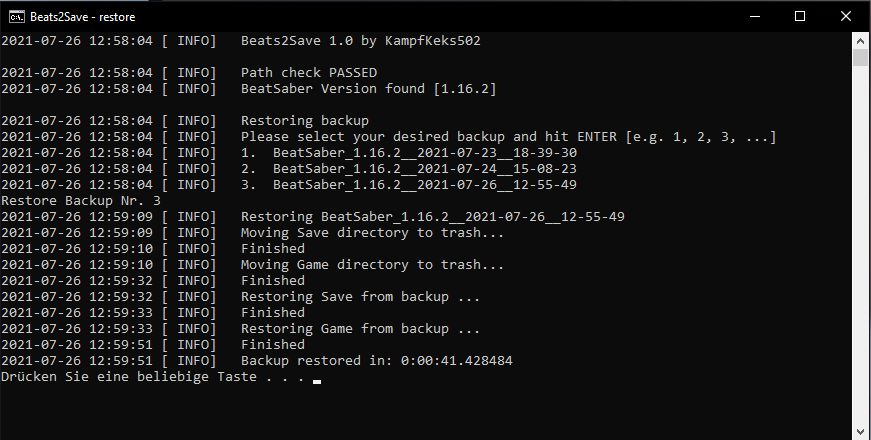
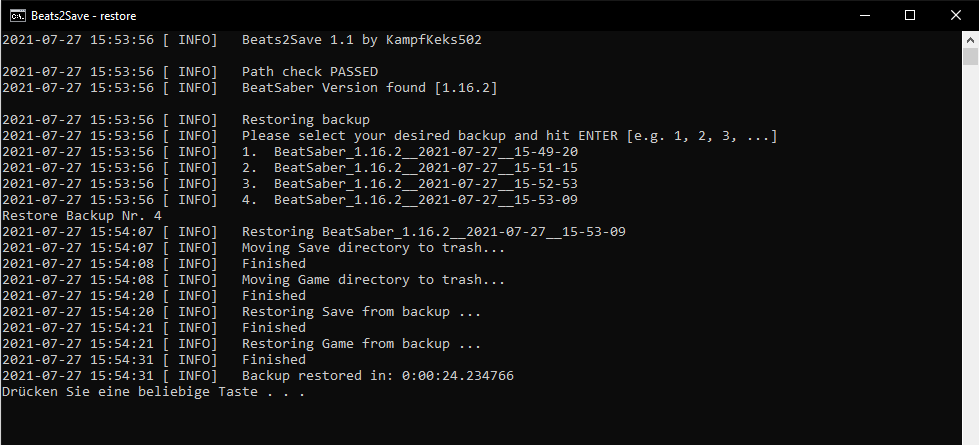
new copy method now copies metadata

diff --git a/Beats2Save.py b/Beats2Save.py
@@ -5,6 +5,7 @@ from os import path
 import os
 import shutil
 from datetime import datetime
+from subprocess import call, run, STDOUT
 
 
 
@@ -16,11 +17,12 @@ group_input.add_argument("-r", "--restore", action="store_true", required=False,
 group_input.add_argument("-c", "--create", action="store_true", required=False, help="Create backup")
 group_input.add_argument("-v", "--version", action="store_true", required=False, help="Show current BeatSaber version")
 
-parser.add_argument("-s", "--save_dir", type=str, metavar="", required=True, help="BeatSaber save directory [e.g " + "C:/Users/Kampfkeks/AppData/LocalLow/Hyperbolic Magnetism" + "\"]")
+parser.add_argument("-s", "--save_dir", type=str, metavar="", required=False, help="BeatSaber save directory [e.g " + "C:/Users/Kampfkeks/AppData/LocalLow/Hyperbolic Magnetism" + "\"]")
 parser.add_argument("-g", "--game_dir", type=str, metavar="", required=True, help="BeatSaber/Steam game directory [e.g \"G:/Steam/steamapps/common\"]")
-parser.add_argument("-b", "--backup_dir", type=str, metavar="", required=True, help="Backup directory [e.g \"G:/Backup/Beatsaber\"]")
+parser.add_argument("-b", "--backup_dir", type=str, metavar="", required=False, help="Backup directory [e.g \"G:/Backup/Beatsaber\"]")
 
-parser.add_argument("-n", "--max_backups", type=int, metavar="", required=False, default=0, help="Max number of backups to store")
+parser.add_argument("-n", "--max_backups", type=int, metavar="", required=False, default=0, help="Max number of backups to store [0 = infinite]")
+parser.add_argument("-d", "--debug", action="store_true", required=False, help="enable debug mode")
 
 args = parser.parse_args()
 
@@ -130,8 +132,12 @@ def bs_version(game_dir):
                 
 
 def copy(src, dst):
+    DEVNULL = open(os.devnull, 'wb')
     try:
-        shutil.copytree(src, dst)
+        if args.debug:
+            call(["robocopy", src, dst, "/MIR"])
+        else:
+            call(["robocopy", src, dst, "/MIR", "/NDL", "/NFL", "/NJH", "/NJS", "/ns", "/nc"], stdout=DEVNULL)
     except Exception as err:
         logging.info("Error copying files")
         print(err)
@@ -139,8 +145,12 @@ def copy(src, dst):
 
 
 def move(src, dst):
+    DEVNULL = open(os.devnull, 'wb')
     try:
-        shutil.move(src, dst)
+        if args.debug:
+            call(["robocopy", src, dst, "/MOVE", "/E"])
+        else:
+            call(["robocopy", src, dst, "/MOVE", "/E", "/NDL", "/NFL", "/NJH", "/NJS", "/ns", "/nc"], stdout=DEVNULL)
     except Exception as err:
         logging.info("Error moving files")
         print(err)
@@ -174,10 +184,12 @@ def backup_count(dirs):
 if __name__ == "__main__":
     if not args.restore and not args.create and not args.version:
         sys.exit()
-    logging.info("Beats2Save 1.0 by KampfKeks502")
-    check_dir(args.save_dir)
+    logging.info("Beats2Save 1.1 by KampfKeks502")
+
+    if not args.version:
+        check_dir(args.save_dir)
+        check_dir(args.backup_dir)
     check_dir(args.game_dir)
-    check_dir(args.backup_dir)
     print()
     logging.info("Path check PASSED")
     version = bs_version(args.game_dir)
